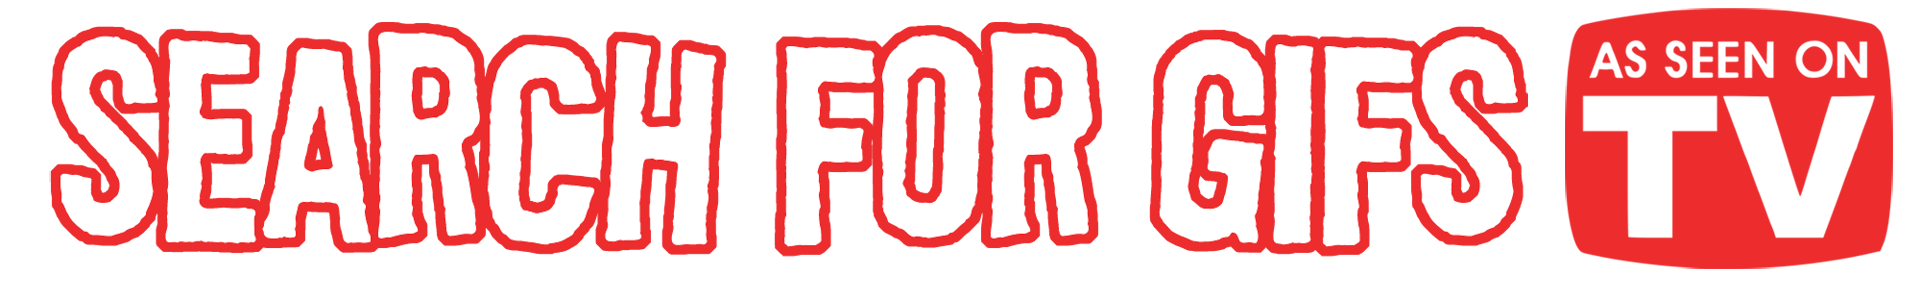
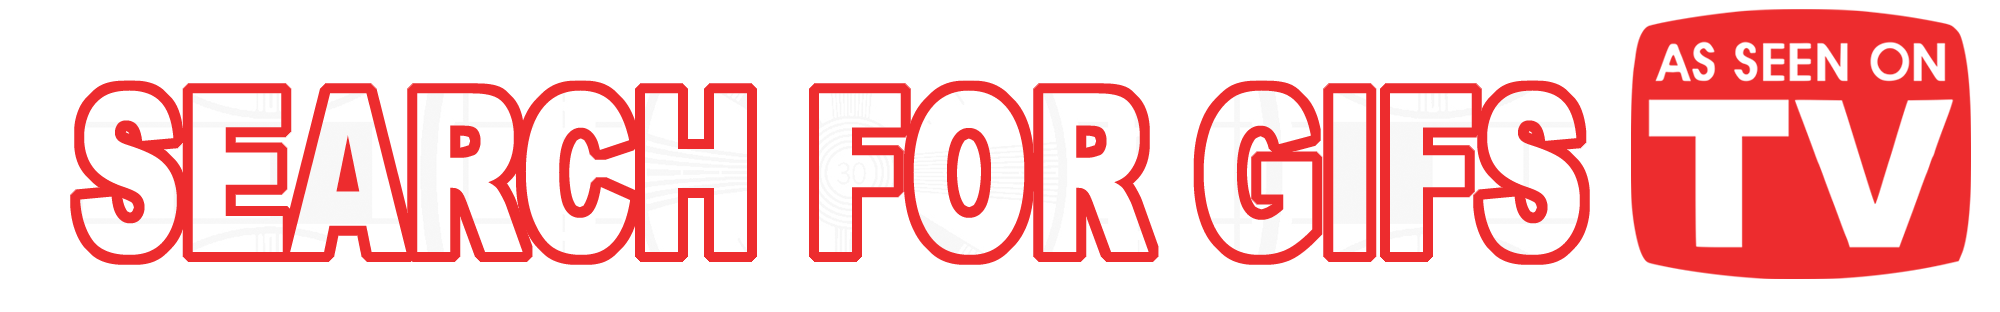
added ratings, added a search limit field. need to set alerts for blank, duplicate and/or invalid searches. set the button clicks to also check limit.

Changed region(s): [[0.0, 0.06, 0.8125, 0.87], [0.875, 0.87, 0.9062, 0.9]]

diff --git a/assets/js/GiphyAPI.js b/assets/js/GiphyAPI.js
@@ -11,6 +11,8 @@ var topics = ["The Simpsons", "Rick and Morty", "Family Guy", //Array of initial
 
 var defaultGifs = "tv+shows";
 
+var limit = 10;
+
 
 
 function renderButtons() { //function to go through array and render the buttons to the DOM
@@ -36,6 +38,8 @@ $(document).on("click", "#submit-button", function() { //document click event on
         .replace(/\s/g, "+") //replace spaces to +
         .replace(/[^A-Za-z0-9+]/g, "") //removes non alpha-numeric characters (except the + symbol)
         .toLowerCase(); //changes all alpha characters to lower case
+
+    limit = $("#num-records-select").val();
 
     $("#search-term").val(''); //clear the search field after a submit by the user
 
@@ -71,7 +75,7 @@ function displayGifs(searchInput) { //display gifs function will populate the re
         $("#results1").empty();
         $("#results2").empty();
 
-        for (var i = 0; i < response.data.length; i++) { //cycle through the response
+        for (var i = 0; i < limit/*response.data.length*/; i++) { //cycle through the response
 
             var newDiv = $("<div>").addClass("result-div"); //add a new div to house each gif result
 
@@ -82,6 +86,10 @@ function displayGifs(searchInput) { //display gifs function will populate the re
                 .data("gif", response.data[i].images.original.url) // add a data-gif with the animated url
                 .data("mode", "still") // add a data-mode used to toggle play/pause
                 .appendTo(newDiv); // append the img into the new Div
+
+            var rating = $("<div>").addClass("rating")
+                .text(response.data[i].rating.toUpperCase())
+                .appendTo(newDiv);
 
             var x = i % 3; 
             var columnAssign = "#results" + x; //split the results into the 3 columns (currently not working right it is only splitting to 2, html or js issue??)
@@ -101,10 +109,10 @@ $(document).on("click", ".result", function() { // function that when clicking t
 
     if ($(this).data("mode") === "still") {  //if the gif has a cuurent data-mode of 'still' then run some code
         $(this).attr("src", $(this).data("gif")) //change the src attribute of the clicked gif to the value of its data-gif
-        .data("mode", "animate"); //change the data-mode to 'animate' so that the next click would run the else statement
+        .data("mode", "animate") //change the data-mode to 'animate' so that the next click would run the else statement
     } else { // if the giff does not have the data-mode value of 'still' run some code (by default if it is not still it will be animate)
         $(this).attr("src", $(this).data("orig")) //change the src attribute of the clicked gif to the value of its data-orig
-        .data("mode", "still"); //change the data-mode to 'still' so that the next click would run the if statement
+        .data("mode", "still") //change the data-mode to 'still' so that the next click would run the if statement
     }
 });
 

diff --git a/index.html b/index.html
@@ -32,8 +32,10 @@
     <div class="container">
         <!-- bottom container -->
         <div class="row"> 
-            <div class="panel text-center col-xs-6 col-xs-push-3 col-sm-6 col-sm-push-3 col-md-3 col-md-push-9 col-lg-3 col-lg-push-9">
+            <div class="panel col-xs-6 col-xs-push-3 col-sm-6 col-sm-push-3 col-md-3 col-md-push-9 col-lg-3 col-lg-push-9">
                 <!-- side panel -->
+
+                <!--inline form
                 <form class="searchTermForm form-inline">
                     <div class="form-group">
                         <div class="input-group">
@@ -46,8 +48,45 @@
 							</span>
                         </div>
                     </div>
-                </form>
-                <img class="powered img-responsive" src="assets/images/powered_giphy.png" alt="Powered by Giphy">
+
+                </form>-->
+            <h3> Type in your TV show title and pick the number of gifs you'd like returned then click 'Submit' or just hit enter. </h3>
+
+            <form role="form" class="searchTermForm">
+
+              <!-- Here we create the text box for capturing the search term-->
+              <div class="form-group">
+                <div class="input-group">    
+                    <div class="input-group-addon">Search:    </div>
+                    <input type="text" class="form-control" placeholder="...." id="search-term">
+                </div>
+              </div>
+
+              <!-- Here we capture the number of records that the user wants to retrieve  -->
+              <div class="form-group">
+                <div class="input-group">
+                    <div class="input-group-addon">Number:</div>
+                    <select class="form-control" id="num-records-select">
+                                <option value="5">5</option>
+                                <!-- Setting the option for 5 as default -->
+                                <option value="10" selected>10</option>
+                                <option value="15">15</option>
+                                <option value="20">20</option>
+                                <option value="25">25</option>
+                            </select>
+                </div>
+              </div>
+              <button id="submit-button" type="submit" class="submitBtn btn btn-default" id="run-search"><i class="fa fa-search"></i> Search</button>
+            </form>
+
+
+
+
+
+
+                <a href="http://api.giphy.com/" target="_blank">
+                    <img class="powered img-responsive" src="assets/images/powered_giphy.png" alt="Powered by Giphy">
+                </a>
                 <hr>
                 <div class="row">
                     <div class="col-lg-12">

diff --git a/assets/css/style.css b/assets/css/style.css
@@ -10,6 +10,7 @@ body {
     min-height: 100%;
     background: url(../images/test_screen.jpg);
     background-size: cover;
+    font-family: "Arial Black", "Arial Bold", Gadget, sans-serif;
 }
 
 .tvShowBtn {
@@ -17,13 +18,14 @@ body {
 	color: #fff;
 	background-color: #ed2c2e;
 	border-radius: 20%;
-	font-family: "Arial Black", "Arial Bold", Gadget, sans-serif;
+	
 	border: none;
 	font-size: 150%;
 }
 
 .result {
 	margin: 10px auto;
+	border-radius: 5px;
 }
 
 .searchTermForm {
@@ -49,5 +51,31 @@ body {
 	font-family: "Arial Black", "Arial Bold", Gadget, sans-serif;
 	color: #fff;
 	border-color: #000;
+}
+
+.panel {
+	margin-top: 10px;
+	background: url(../images/test_screen_white.jpg);
+	background-size: cover;
+}
+
+.result-div {
+	position: relative;
+	padding-bottom: 1.5em;
+}
+
+.rating {
+	position: absolute;
+	top: 0.5em;
+	left: 0.5em;
+	background-color: rgba(255,255,255,0.5);
+	color: rgba(0,0,0,0.5);
+	border-radius: 5px;
+	padding: 0.5em;
+	min-width: 2.5em;
+	max-width: 5em;
+	font-size: 1.25em;
+	text-align: center;
+	font-family: "Arial Black", "Arial Bold", Gadget, sans-serif;
 }
 
